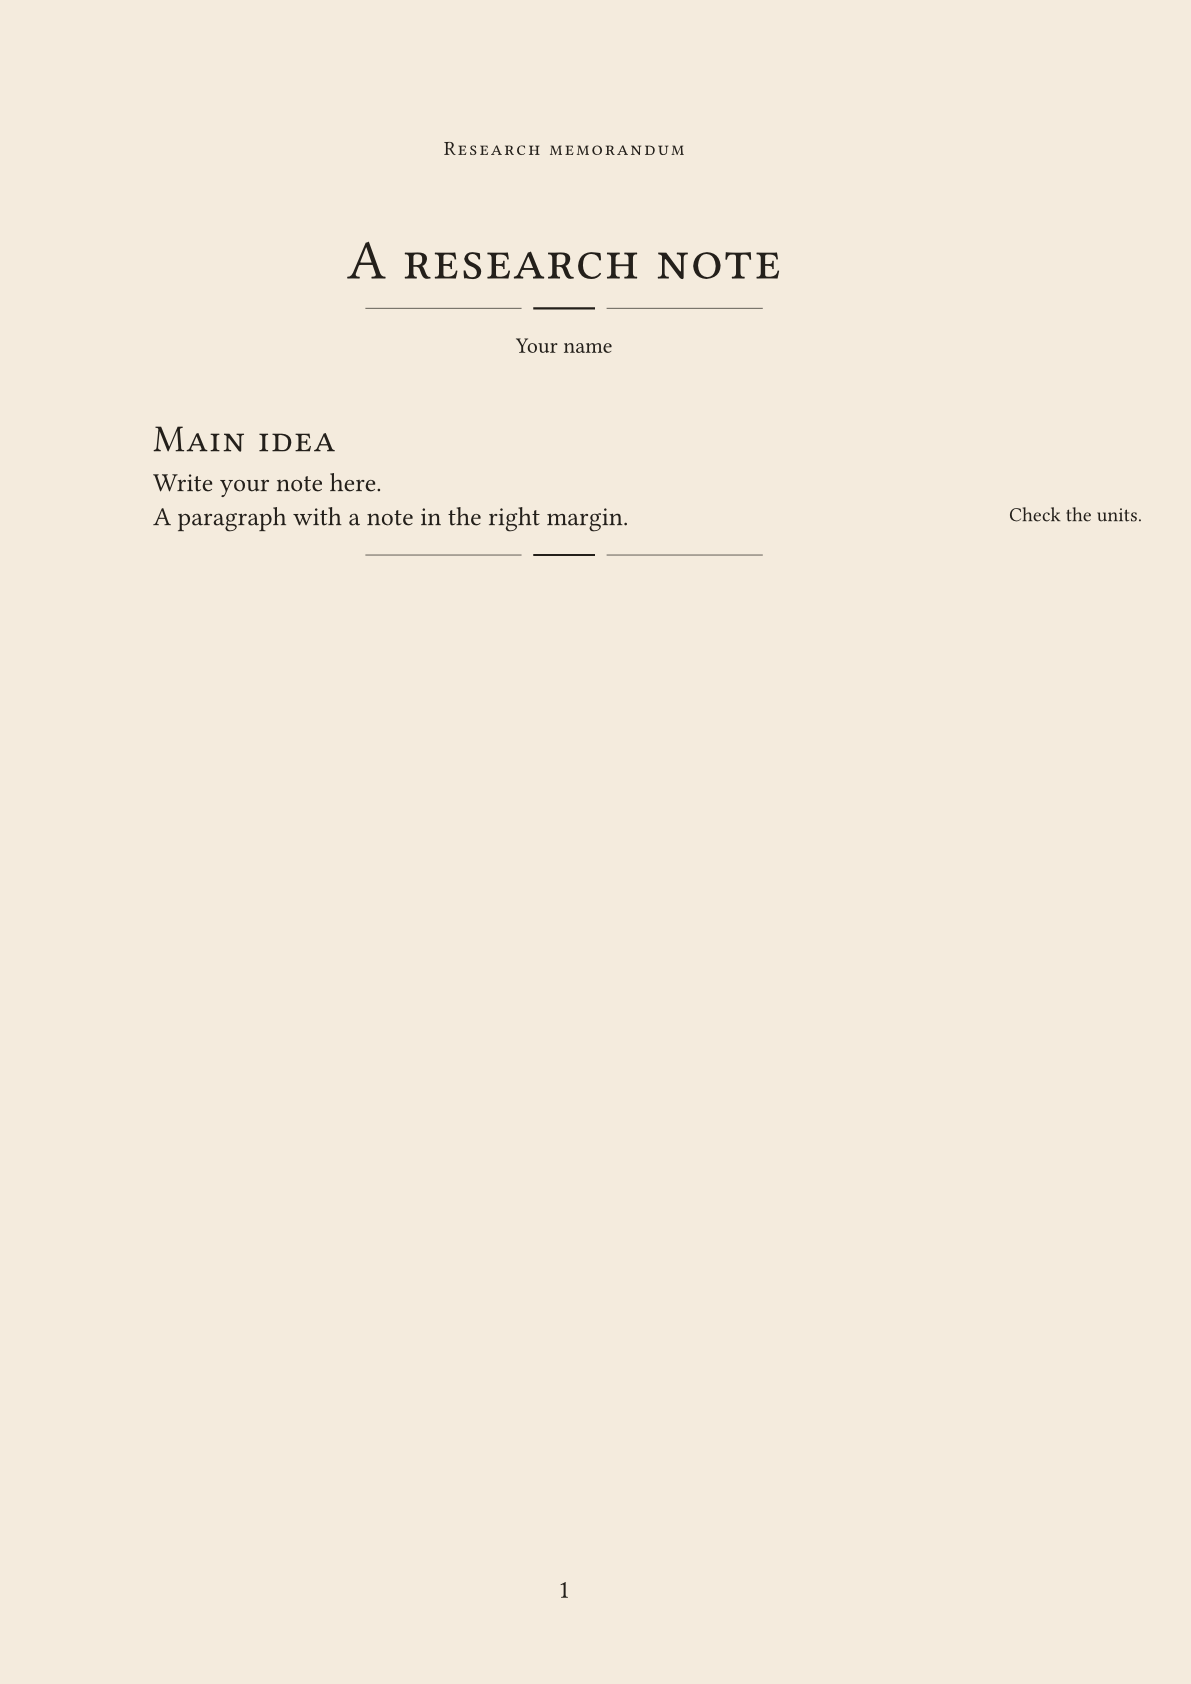
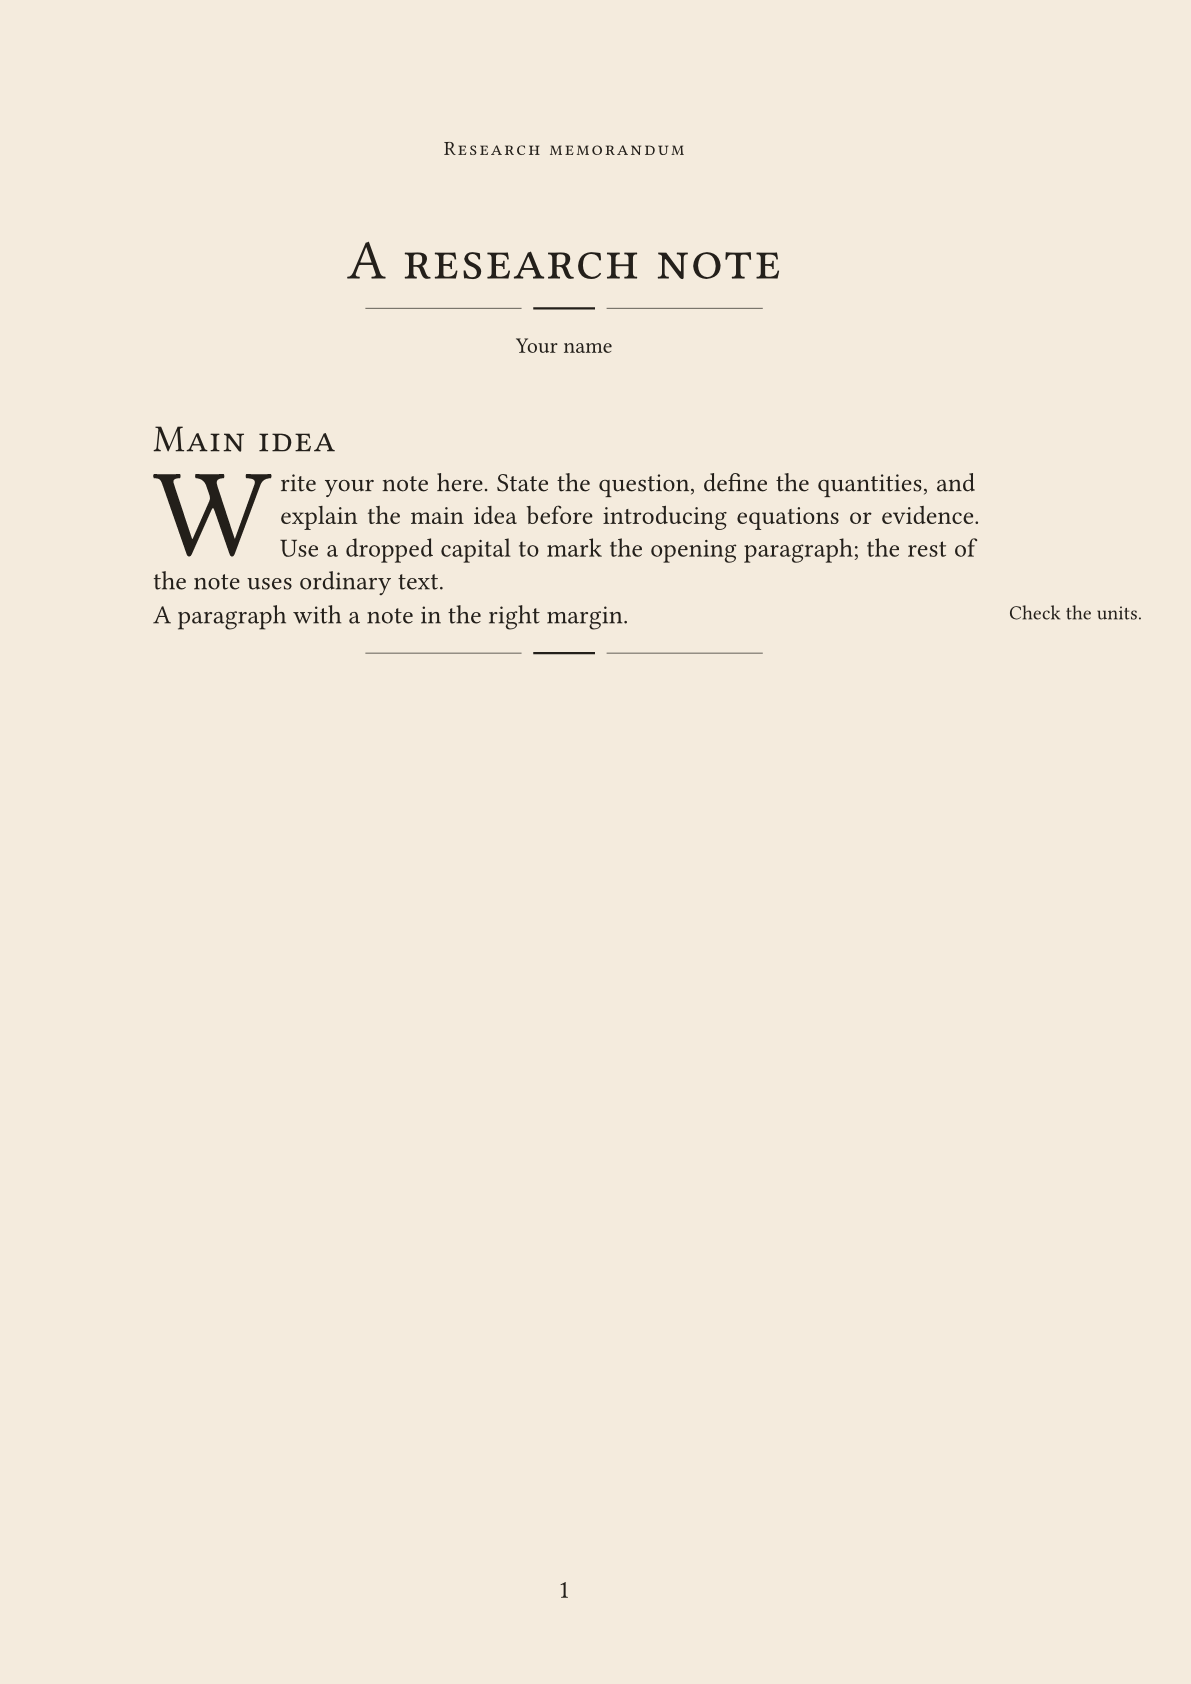
Add optional three-line drop capitals with droplet

Changed region(s): [[0.1243, 0.2779, 0.8077, 0.3705]]

diff --git a/README.md b/README.md
@@ -4,7 +4,8 @@
 Research memos with cream paper, classical serif typography, small-cap headings,
 printer's rules, and readable mathematics and tables. Adapted from
 [Foadsf/vintage-latex](https://github.com/Foadsf/vintage-latex), with modern
-spelling and numerals. The default appearance needs no extra fonts or packages.
+spelling and numerals. The memo style needs no extra fonts or packages; the starter uses
+[droplet](https://typst.app/universe/package/droplet/) for an optional drop cap.
 Requires Typst 0.15.0 or newer.
 
 Version 0.1.2 is a repository-only version. The existing
@@ -18,12 +19,17 @@ Import the package and apply `memo` to your document:
 
 ```typ
 #import "@preview/sepia-memo:0.1.2": memo, memo-note, printer-rule
+#import "@preview/droplet:0.3.1": dropcap
 
 #show: memo.with(title: [A research note], author: "Your name")
 
 = Main idea
 
-Write your note here.
+#dropcap(height: 3, gap: 4pt)[
+  Write your note here. State the question, define the quantities, and explain
+  the main idea before introducing equations or evidence. Use a dropped capital
+  to mark the opening paragraph; the rest of the note uses ordinary text.
+]
 
 #memo-note[Check the units.][A paragraph with a note in the right margin.]
 
@@ -82,6 +88,20 @@ Import `printer-rule` alongside `memo` to insert a three-part divider with
 It reserves both heights to prevent overlap and stays on one page. Use it at
 the top level with the standard memo margins, not inside a table, column, or
 narrow container. Use ordinary footnotes for long notes.
+
+## Optional drop capital
+
+The starter and Usage example import `dropcap` directly from
+[droplet 0.3.1](https://typst.app/universe/package/droplet/), then wrap the opening
+paragraph in `#dropcap(height: 3, gap: 4pt)[...]`. The first letter spans three
+lines; text returns to full width below it. It inherits the memo's text font,
+including optional Garamond. No extra function or setting in `memo` is needed.
+
+Use it on one prose paragraph at a time. Keep tables, display equations, and
+margin notes outside the wrapper. Droplet splits at word boundaries and has
+[wrapping limitations](https://typst.app/universe/package/droplet/#paragraph-splitting).
+For an ordinary opening paragraph, remove the wrapper and the droplet import.
+Typst downloads droplet on first use; later builds can use the cached package.
 
 ## Optional Garamond appearance
 
@@ -178,6 +198,10 @@ it does not change the library's CC-BY-SA obligations. Authors retain rights in
 their own writing. An output's obligations depend on any protected upstream
 material it contains or adapts; this package grants no blanket output exception.
 The supplied sample PDF and preview images may be shared under CC-BY-SA-4.0.
+
+The optional drop-cap package, droplet 0.3.1 by Eric Biedert, is separately
+distributed under [MIT](https://github.com/typst/packages/blob/main/packages/preview/droplet/0.3.1/LICENSE).
+It is imported from Universe; its source is not copied into this package.
 
 No upstream demonstration prose, fonts, engraved figures, or fiziko code are
 distributed. See [LICENSE](LICENSE) for file-level scope and full terms.
